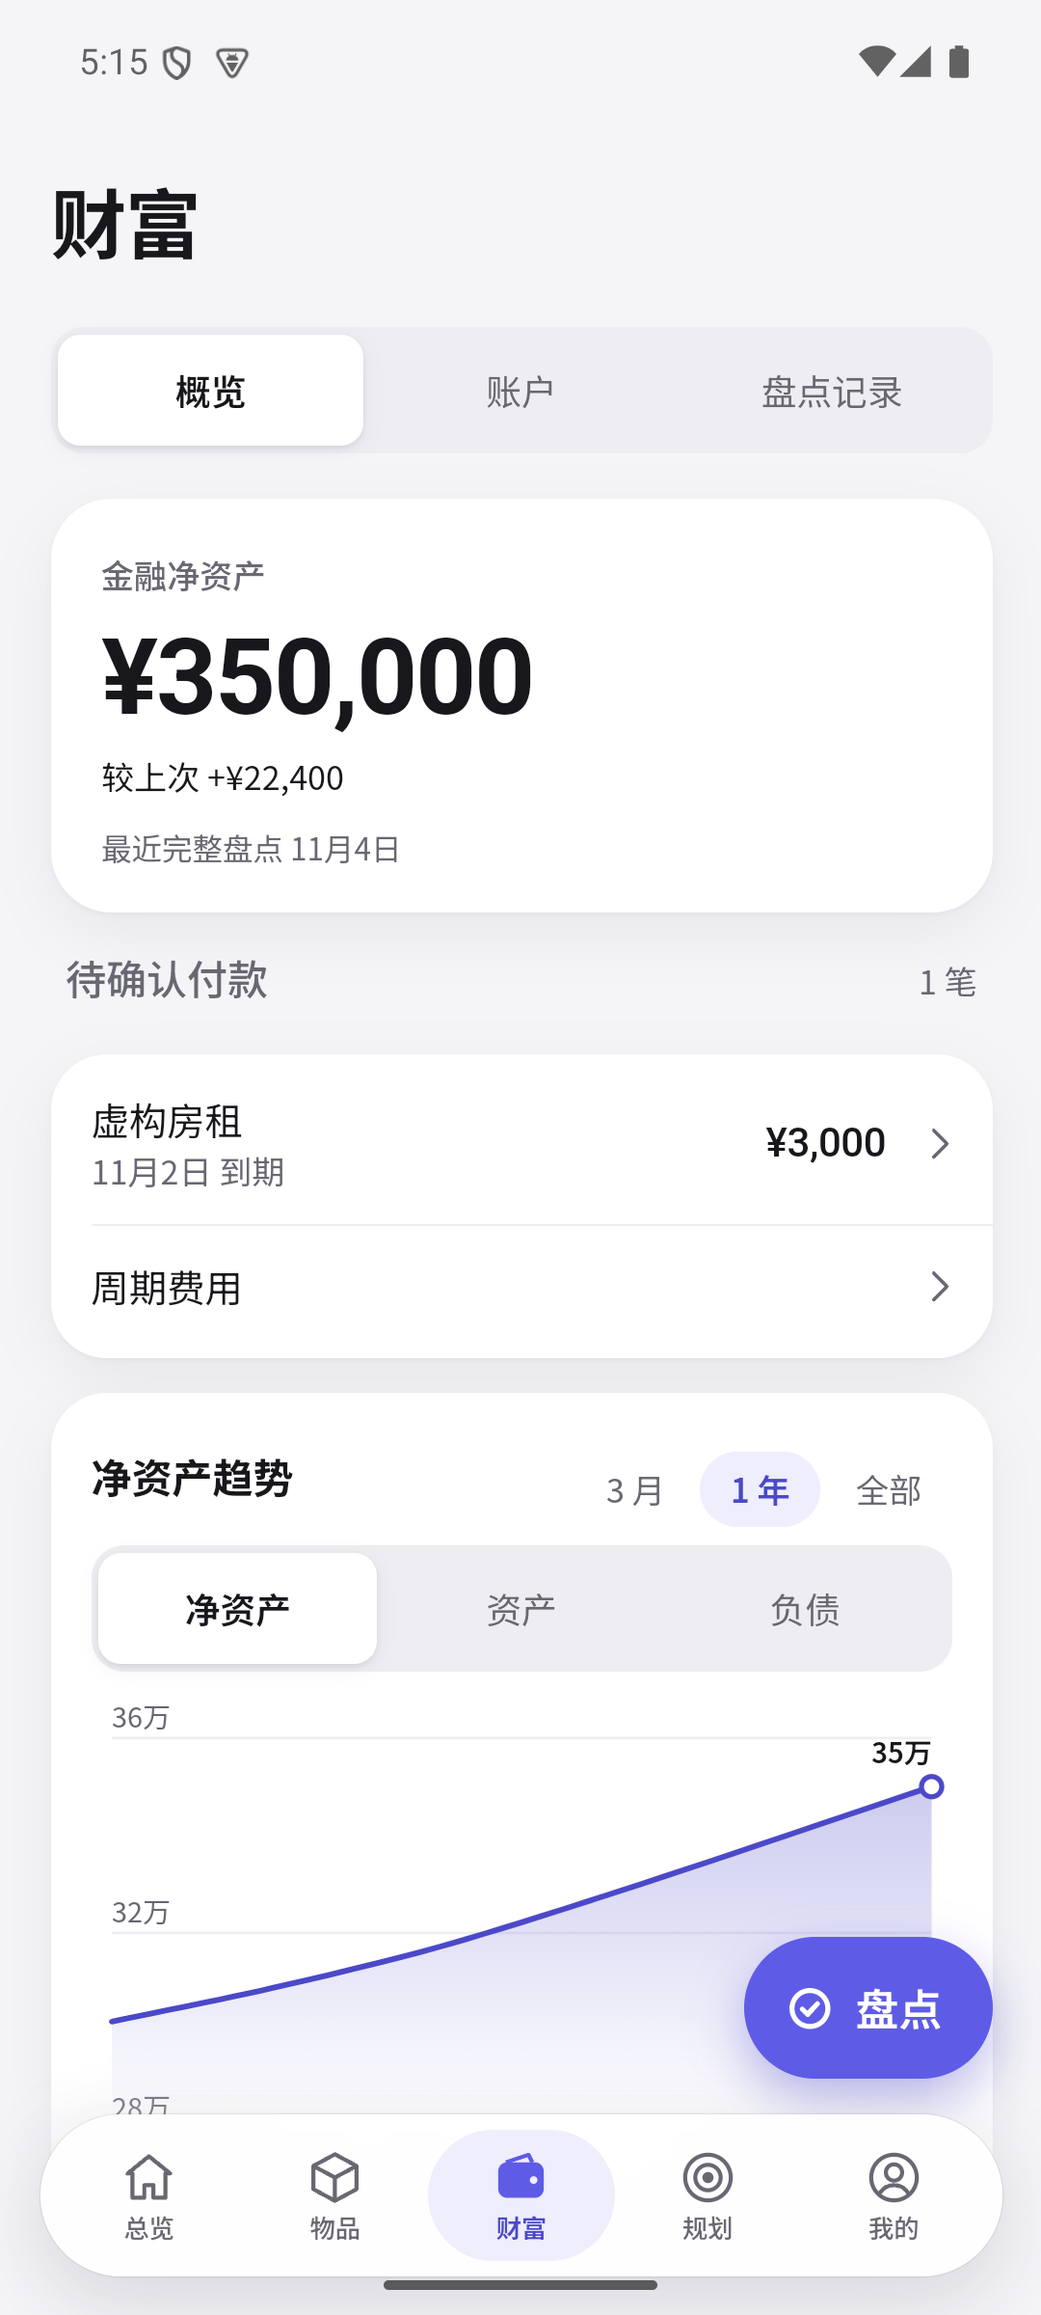
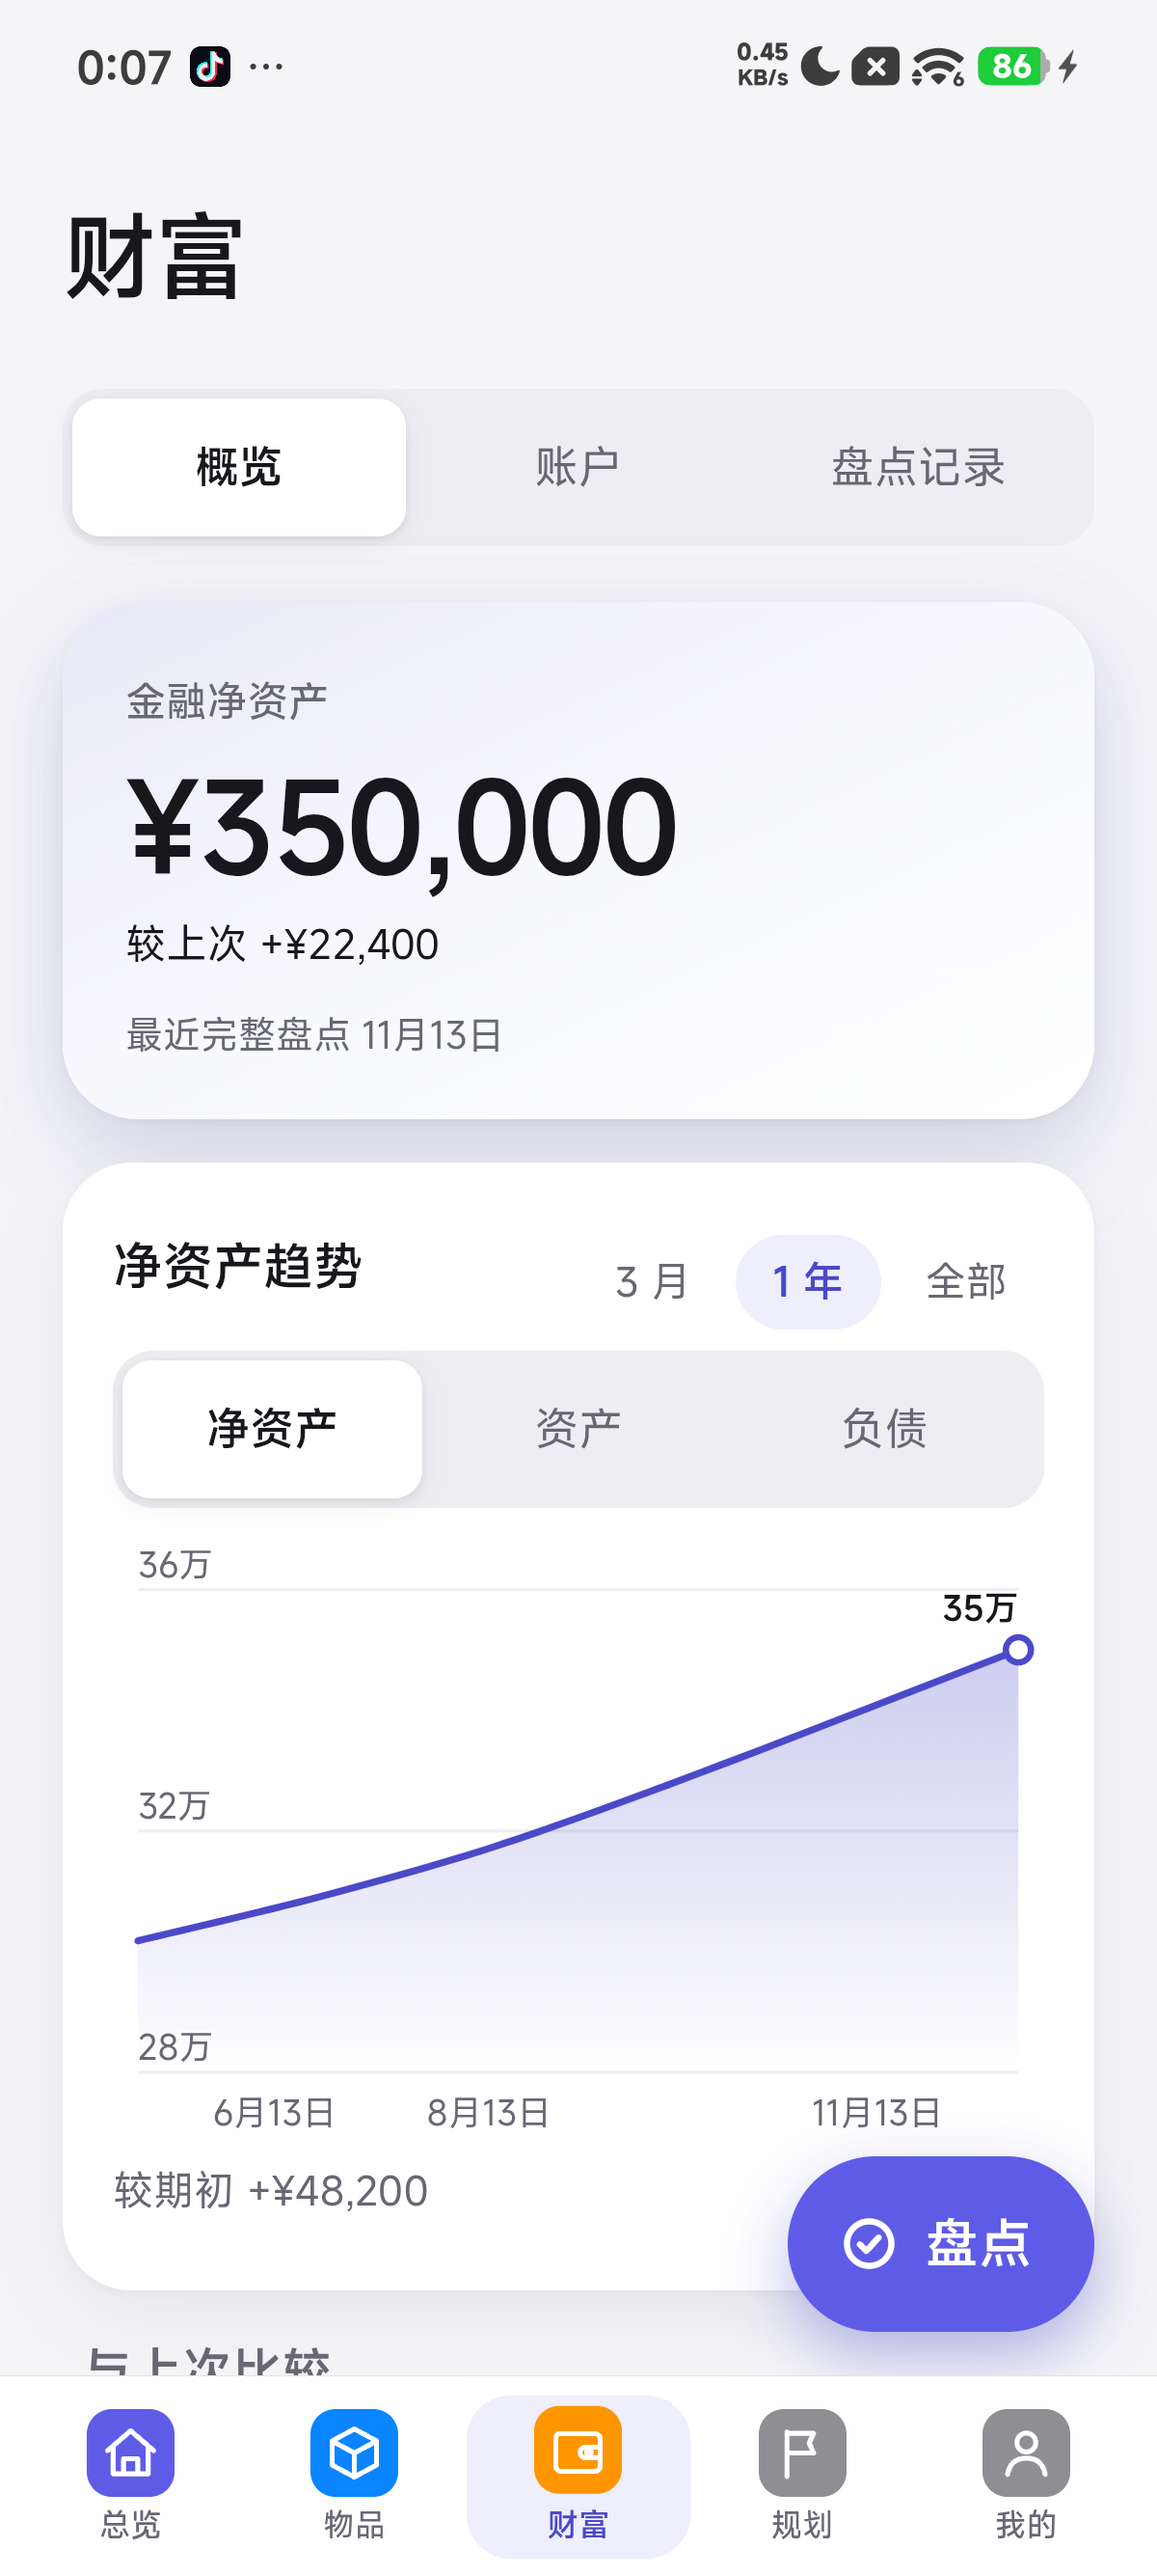
docs: refresh Android 0.1.1 screenshots

diff --git a/docs/images/README.md b/docs/images/README.md
@@ -1,12 +1,12 @@
 # 界面截图与维护
 
-## README 高清预览与安卓截图（2026-11-04）
+## README 高清预览与安卓截图（最近更新 2026-11-19）
 
 `walkthrough.gif` 改用 `readme-desktop/` 中的六张无损 PNG，顺序为 `overview.png`、`accounts.png`、`planning.png`、`savings.png`、`review.png`、`belongings.png`。来源为 0.1.0 源码的 `visual-preview.html?demo=1`，采集基线 `796a2d90f9cd9b096df2ba29d08871551cdf41d1`，Ego Lite 浏览器，简体中文、柔和卡片浅色主题、1280×960 逻辑视口、2× 捕获（**2560×1920**）。仅隐藏浏览器翻译扩展悬浮按钮与开发预览角标，保留应用的样例提示、未知资料和待确认条件；存钱目标帧滚动到该区域，物品帧选中 MacBook Pro。界面文字、金额与布局未拼改。README 点击动图可打开无损总览图。它是浏览器界面截图轮播，不是原生连续操作录像。
 
-`android/overview.png`、`android/accounts.png`、`android/planning.png` 为 Android 15（API 35、ARM64）模拟器 `thingary35` 的原生截图，均为 **1080×2400**，通过 `adb exec-out screencap -p` 直接取得；应用是模拟器内原有的独立身份 `local.thingary.preview`，`versionName=0.1.0`、`versionCode=1000`，安装更新时间为 2026-10-25。此次未重新构建或安装 APK，因此不将该包与桌面采集基线视为同一源码。只展示内置虚构样例，语言切为简体中文后重启，确认页面、页签与底部导航均为中文，再依次采集总览、财富概览与规划目标页。未打开正式身份或正式资料库。
+`android/overview.png`、`android/accounts.png`、`android/planning.png` 为小米 Android 16 真机（1200×2670，系统密度 520）的原生截图，通过 `adb exec-out screencap -p` 直接取得。应用是独立身份 `local.thingary.preview`，`versionName=0.1.1`、`versionCode=1001`，2026-11-19 由当前源码重新构建并覆盖安装；系统切为浅色主题，只展示完整虚构样例，依次采集总览、财富概览与规划目标页。截图保留样例状态、状态栏与系统时间，未拼改界面文字或金额。未打开正式身份或正式资料库。
 
-中英文 README 共用这组中文图片。安卓模拟器截图证明该预览包的页面展示，不代表真实手机或公开 APK 的完整功能验收；桌面浏览器与安卓样例的规划条件各自保留，不拼成同一组测算结果。GIF 重建参数见下文。
+中英文 README 共用这组中文图片。安卓真机截图证明该预览包的页面展示，不代表正式 APK 的全部功能或所有厂商 ROM 均已验收；桌面浏览器与安卓样例的规划条件各自保留，不拼成同一组测算结果。GIF 重建参数见下文。
 
 ## 0.1.0 对照（2026-11-02）
 

diff --git a/docs/QUICKSTART.md b/docs/QUICKSTART.md
@@ -57,7 +57,7 @@
 
 ## 已知限制
 
-- **平台**：Mac 最低目标为 macOS 14，Windows 为 Windows 10 1809+ / 11 x64；目前实机使用覆盖 Apple Silicon Mac 和 Windows 11 x64。Intel、macOS 14、Windows 10 和安卓真机尚未验证。Windows ARM 设备需通过系统模拟运行 x64 版；暂无 Linux 客户端。
+- **平台**：Mac 最低目标为 macOS 14，Windows 为 Windows 10 1809+ / 11 x64；目前实机使用覆盖 Apple Silicon Mac、Windows 11 x64 和小米 Android 16 真机。安卓已在同一台真机验证 0.1.0 → 0.1.1 覆盖升级；其他厂商 ROM、Android 15 及更早系统、Intel、macOS 14 和 Windows 10 尚未验证。Windows ARM 设备需通过系统模拟运行 x64 版；暂无 Linux 客户端。
 - **加密范围**：加密导出的备份文件（可选）与 WebDAV 同步快照；主资料库、图片和恢复前保护副本未加密。
 - **不做**：日常流水记账、行情交易、自动付款、后台常驻同步或记录级合并。
 

diff --git a/README.en.md b/README.en.md
@@ -32,7 +32,7 @@ Built for occasional check-ins. No daily transaction ledger, market-data feed, t
 
 ## Android interface
 
-Overview, account check-ins, and retirement planning on the phone. These Chinese screenshots come from an Android 15 emulator with fictional sample data. Click an image for the full resolution.
+Overview, account check-ins, and retirement planning on the phone. These Chinese screenshots come from an Android 16 phone using the isolated preview identity and fictional sample data. Click an image for the full resolution.
 
 | Overview | Accounts & check-ins | Goals & projections |
 |:---:|:---:|:---:|

diff --git a/README.md b/README.md
@@ -32,7 +32,7 @@
 
 ## 安卓端界面
 
-总览看家底，财富页盘账户，规划页看目标。以下为 Android 15 模拟器中的中文界面，使用虚构样例；点击图片可查看原图。
+总览看家底，财富页盘账户，规划页看目标。以下为 Android 16 真机中的中文界面，使用独立预览身份与完整虚构样例；点击图片可查看原图。
 
 | 总览 | 账户与盘点 | 目标与测算 |
 |:---:|:---:|:---:|
